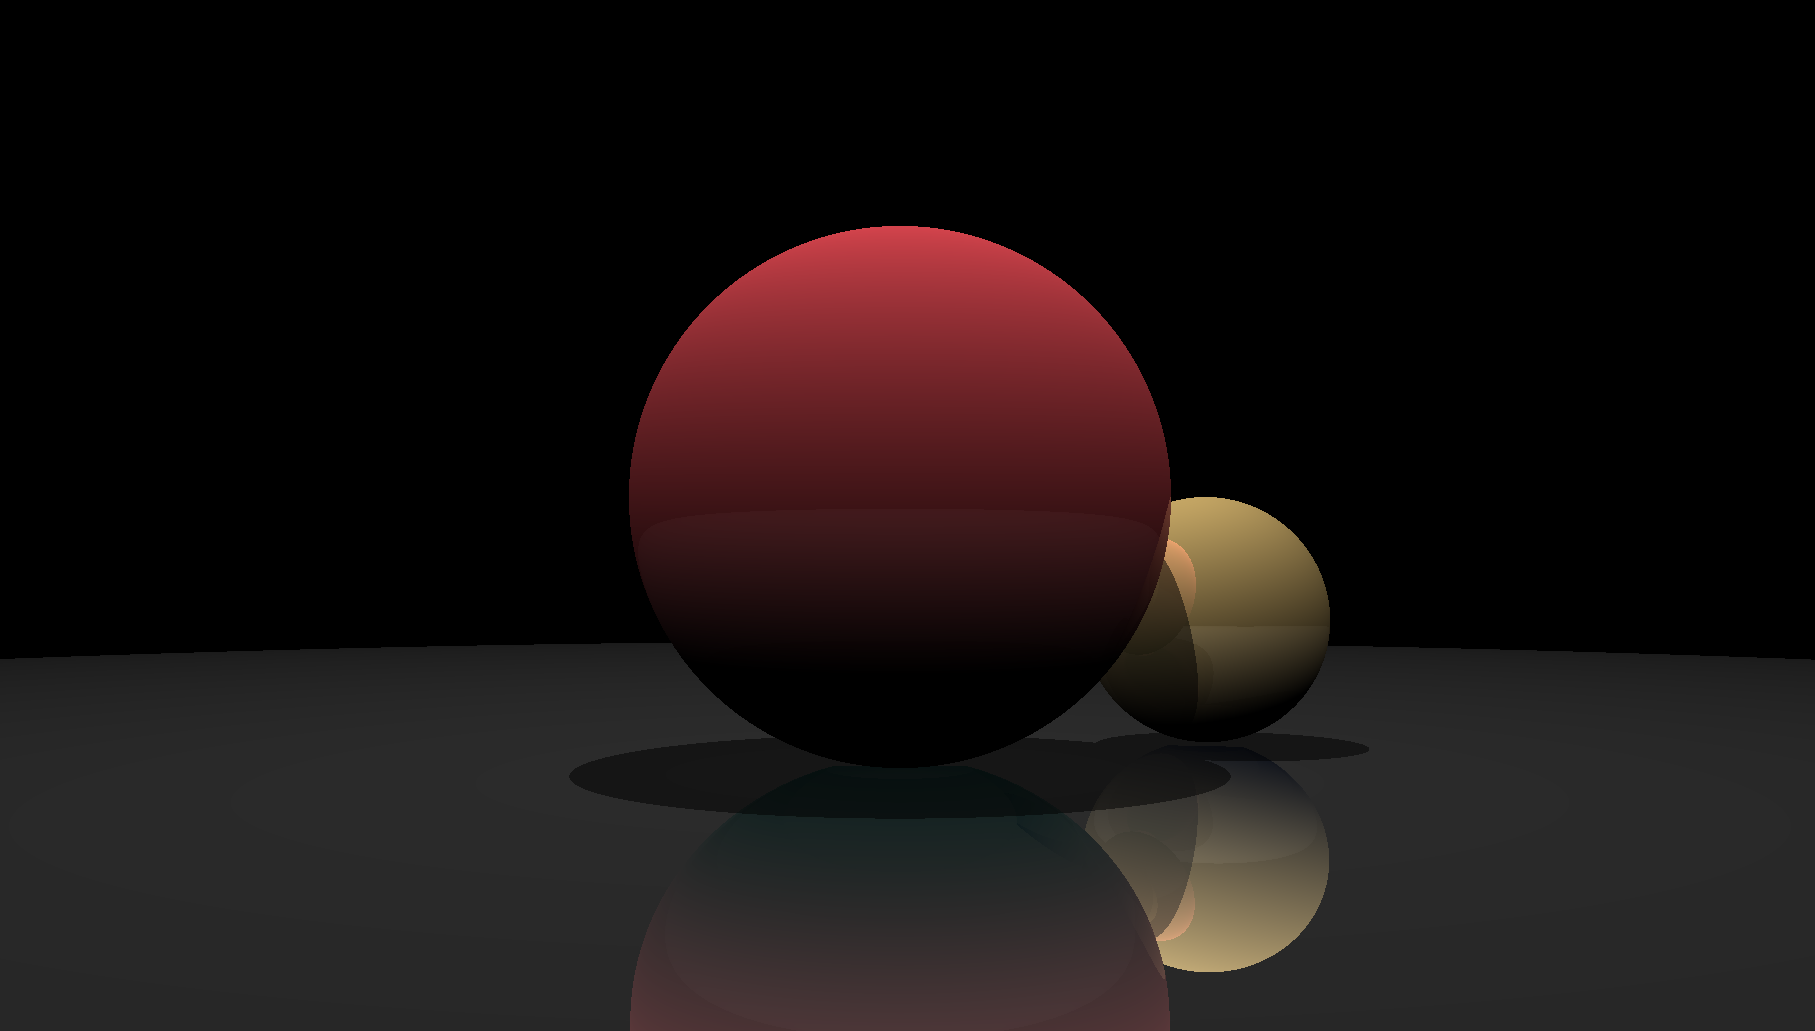
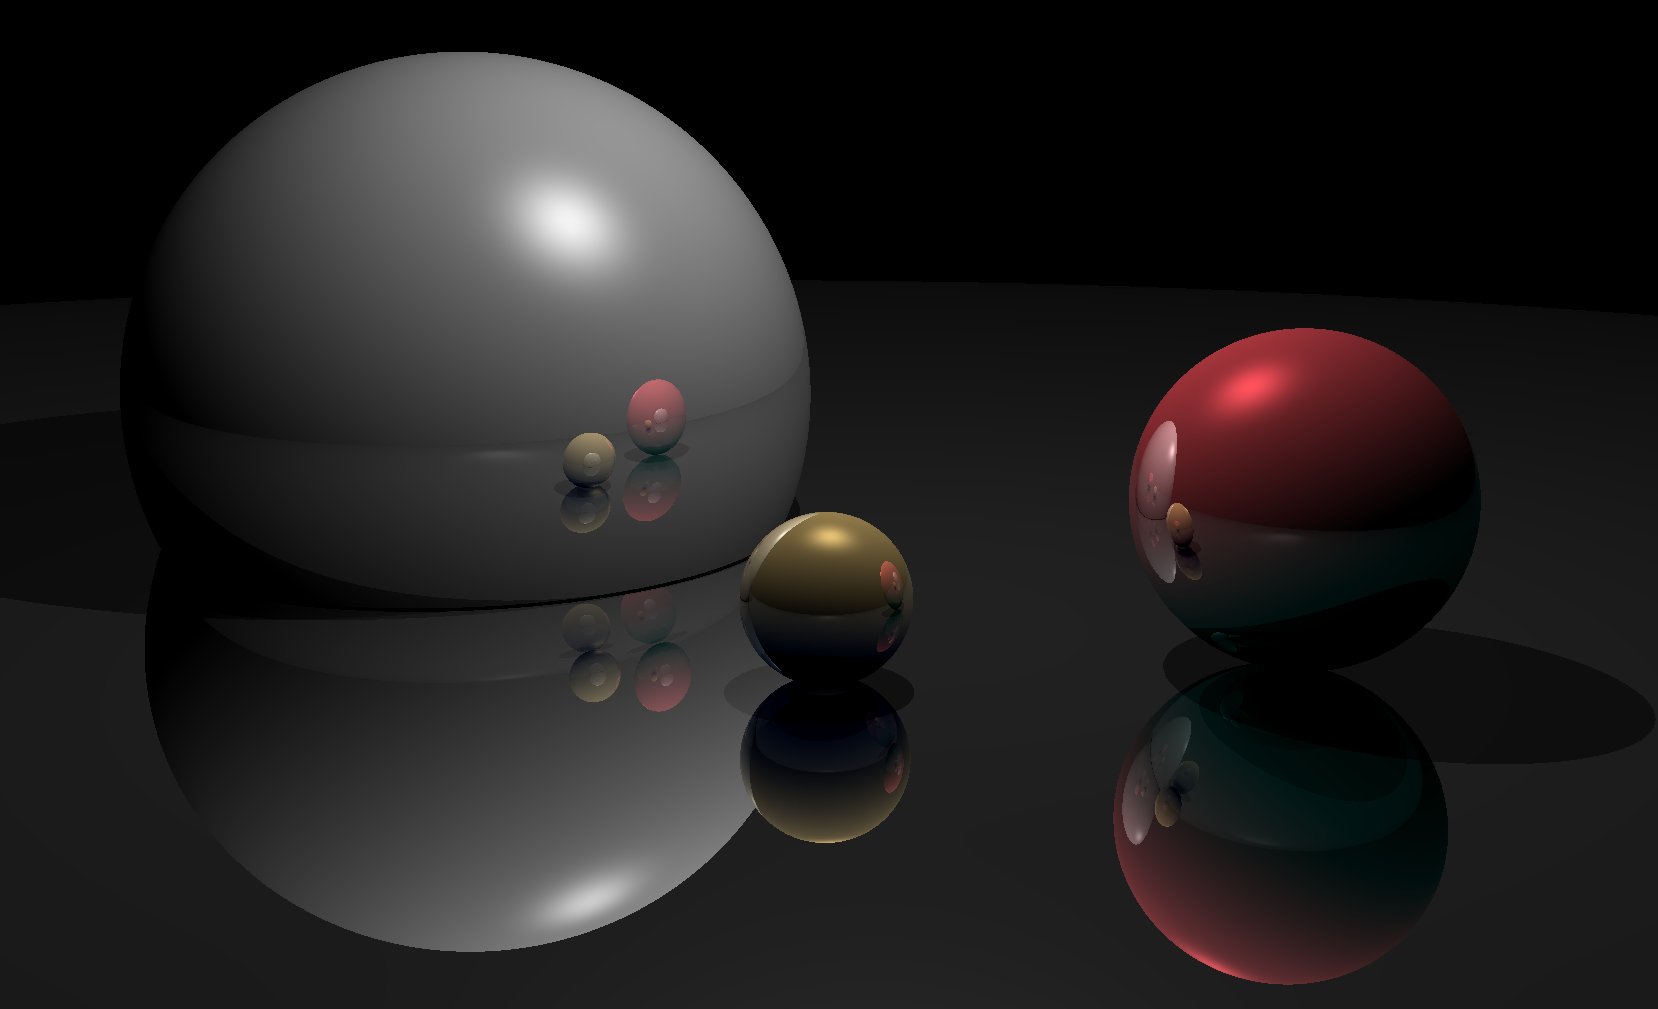
better image

diff --git a/projects/ray/main.cpp b/projects/ray/main.cpp
@@ -35,7 +35,7 @@ void ray::gl_main() {
     objects.emplace_back(vec3(0.0,0.0,-40), 4.0, vec3(1.0,0.32,0.36));
     objects.emplace_back(vec3(5.0,     -2.0, -30), 2.0, vec3(0.90, 0.76, 0.46));
 //    objects.emplace_back(vec3(3.0,     5.0, -30), 2.0, vec3(0.90, 0.76, 0.46));
-    objects.emplace_back(vec3(-5.5,0,-15.0),2, vec3(0.9, 0.9, 0.9));
+    objects.emplace_back(vec3(-5.5,0,-15.0),10.0, vec3(0.9, 0.9, 0.9));
 
 
 

diff --git a/projects/ray/README.md b/projects/ray/README.md
@@ -1,5 +1,5 @@
-software and hardware(real time) raytracing 
+software and hardware(real time) raytracing
+![image](../../docs/ray2.png)
 ![gif](../../docs/ray4.gif)
 ![image](../../docs/ray3.png)
-![image](../../docs/ray2.png)
 ![image](../../docs/ray1.png)
